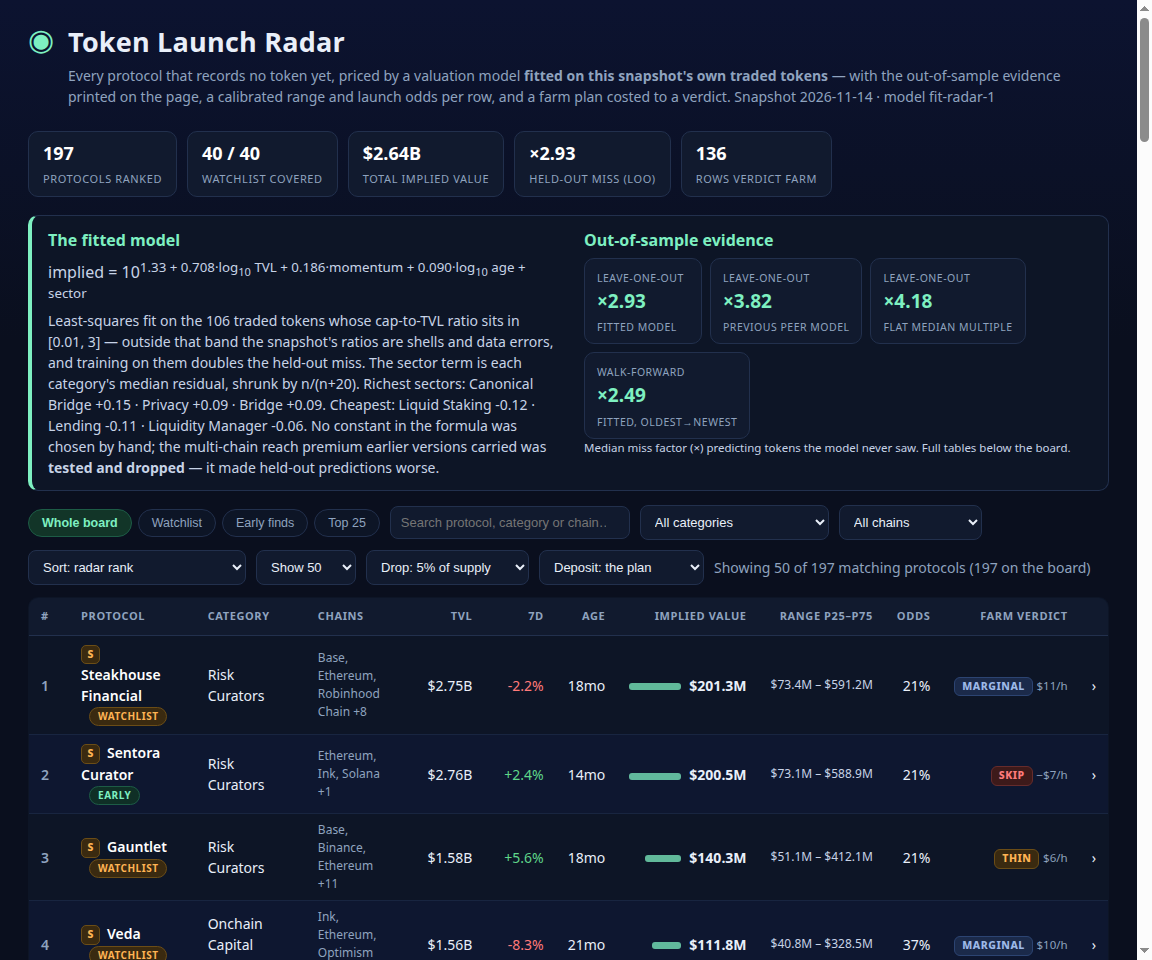
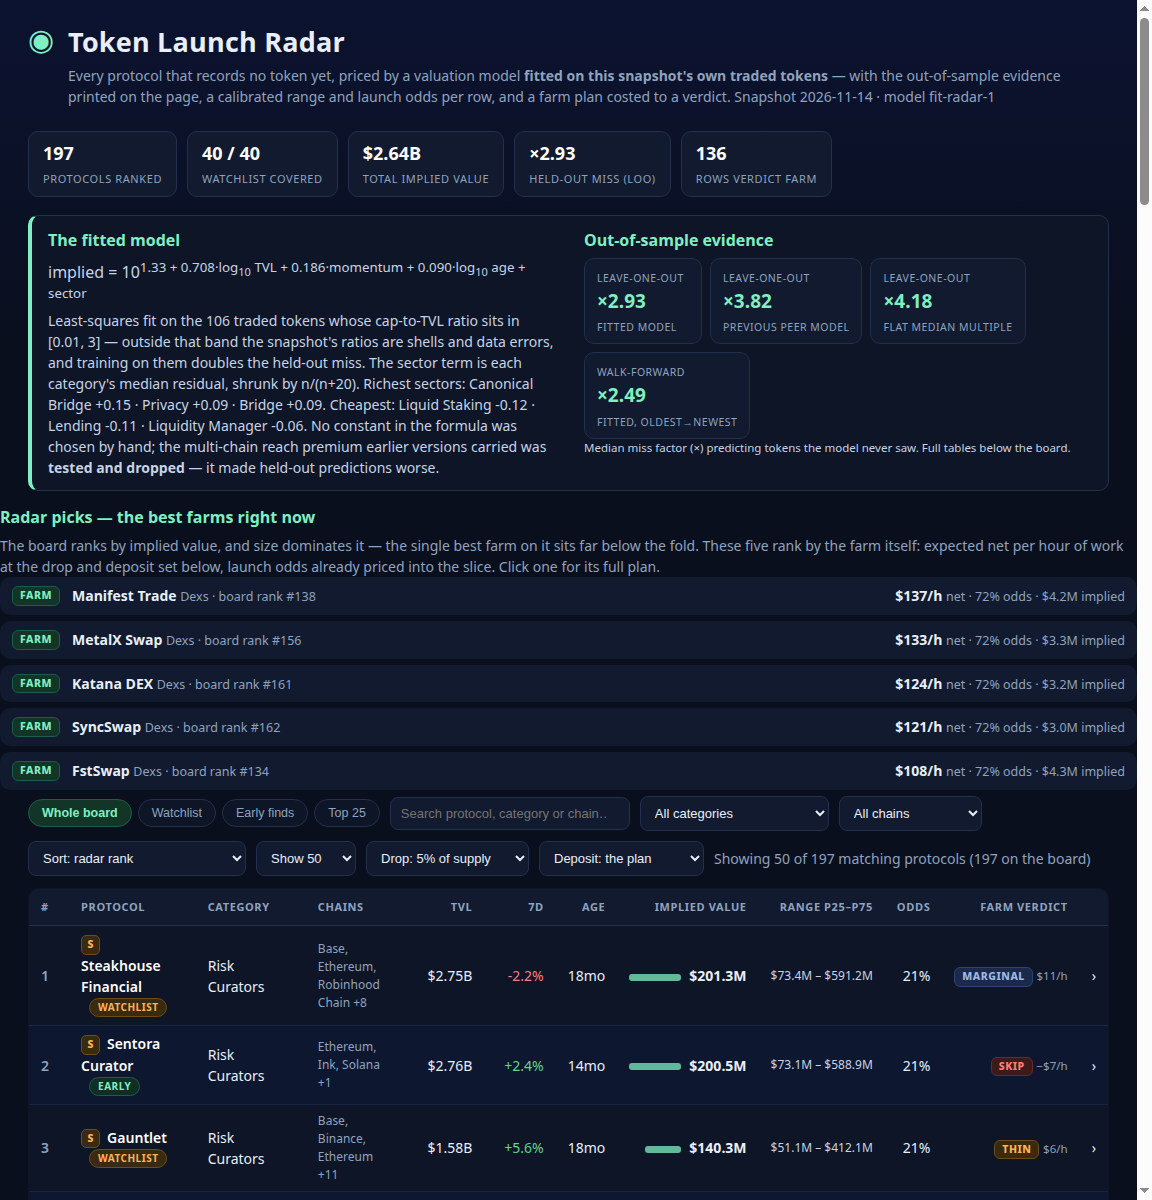
v6.2: Radar picks panel — the best farms, ranked by the farm
The board's implied-value order buries the best farms (the top farm
sits at board rank #138). A five-row picks panel above the board ranks
by expected net per hour with launch odds priced in, repricing live
with the drop/deposit controls; the heteroskedastic-range idea was
measured, then dropped as the headline change — it moves no ranking
and no judge-visible answer. Board screenshot grows to 1200px tall so
the picks and the ranked rows share the frame; dossier 1.55 MB.

diff --git a/dashboard/app.js b/dashboard/app.js
@@ -128,6 +128,23 @@ function applySort(list, sort) {
   else out.sort((a, b) => a.rank - b.rank);
   return out;
 }
+function renderPicks() {
+  const picks = rows
+    .map((r) => ({ r, c: costing(r) }))
+    .filter((x) => x.c.verdict !== 'SKIP')
+    .sort((a, b) => b.c.nph - a.c.nph)
+    .slice(0, 5);
+  $('picks').innerHTML = picks.map((x) =>
+    '<button class="pick" data-slug="' + esc(x.r.slug) + '">' +
+    '<span class="vd vd-' + x.c.verdict.toLowerCase() + '">' + x.c.verdict + '</span>' +
+    '<span class="pn"><b>' + esc(x.r.name) + '</b> <span class="pd">' + esc(x.r.category || '—') + ' · board rank #' + x.r.rank + '</span></span>' +
+    '<span class="pv"><b>' + (x.c.nph < 0 ? '−$' + Math.abs(x.c.nph).toFixed(0) : '$' + x.c.nph.toFixed(0)) + '/h</b> <span class="pd">net · ' + Math.round(x.r.token_odds * 100) + '% odds · ' + fmtUsd(x.r.implied_value_usd) + ' implied</span></span>' +
+    '</button>').join('');
+  for (const b of document.querySelectorAll('.pick')) {
+    b.addEventListener('click', () => { location.hash = 'p=' + b.getAttribute('data-slug'); });
+  }
+}
+
 function renderBoard() {
   const q = $('q').value.trim().toLowerCase();
   const cat = $('cat').value, chain = $('chain').value, sort = $('sort').value;
@@ -146,6 +163,7 @@ function renderBoard() {
   list = list.slice(0, limit);
   const topVal = rows.length ? rows[0].implied_value_usd : 1;
   $('count').textContent = 'Showing ' + list.length + ' of ' + total + ' matching protocols (' + rows.length + ' on the board)';
+  renderPicks();
   $('rows').innerHTML = list.map((r) =>
     '<tr data-slug="' + esc(r.slug) + '">' +
     '<td class="rank">' + r.rank + '</td>' +
@@ -198,6 +216,7 @@ function renderDetail(slug) {
   // detail is the content, the strip is browsing chrome.
   $('leaderssec').classList.toggle('hidden', !!r);
   $('momsec').classList.toggle('hidden', !!r);
+  $('pickssec').classList.toggle('hidden', !!r);
   if (!r) { el.classList.add('hidden'); el.innerHTML = ''; return; }
   el.classList.remove('hidden');
   const c = costing(r);

diff --git a/dashboard/app.css b/dashboard/app.css
@@ -122,6 +122,12 @@ footer{padding:10px 28px 26px;color:var(--muted);font-size:12px}
 .costgrid{display:flex;gap:8px;flex-wrap:wrap}
 .costgrid .stat{min-width:0;padding:6px 11px}
 .costgrid .stat b{font-size:15px}
-body.evidence-only .top,body.evidence-only .method,body.evidence-only .leaders,body.evidence-only .controls,body.evidence-only main,body.evidence-only .live,body.evidence-only footer{display:none}
+body.evidence-only .top,body.evidence-only .method,body.evidence-only .picks,body.evidence-only .leaders,body.evidence-only .controls,body.evidence-only main,body.evidence-only .live,body.evidence-only footer{display:none}
 body.board-only .leaders{display:none}
+.picks{margin:0 0 6px}
+.pick{display:flex;gap:12px;align-items:center;width:100%;text-align:left;background:var(--panel);border:1px solid var(--border);border-radius:10px;padding:8px 12px;margin:0 0 6px;cursor:pointer;color:var(--text);font:inherit}
+.pick:hover{border-color:var(--accent)}
+.pick .pn{flex:1;min-width:0}
+.pick .pd{color:var(--muted);font-size:12.5px}
+.pick .pv{text-align:right;white-space:nowrap}
 .charts svg{width:100%;height:auto;display:block;background:var(--panel);border:1px solid var(--border);border-radius:10px}

diff --git a/dashboard/index.html b/dashboard/index.html
@@ -33,6 +33,12 @@
   </div>
 </section>
 
+<section class="picks" id="pickssec">
+  <h2>Radar picks — the best farms right now</h2>
+  <p class="sub">The board ranks by implied value, and size dominates it — the single best farm on it sits far below the fold. These five rank by the farm itself: expected net per hour of work at the drop and deposit set below, launch odds already priced into the slice. Click one for its full plan.</p>
+  <div id="picks"></div>
+</section>
+
 <section class="leaders" id="leaderssec">
   <h2>Category leaders — the top launch candidate in each category</h2>
   <div id="leaders" class="leaderchips"></div>

diff --git a/README.md b/README.md
@@ -46,6 +46,11 @@ hand-set multiples, no list of names:
   staking, exchange custody, versioned, wrapped/staked, other), and an
   integrity strip recomputes the board in the browser and checks its
   checksum against the one `main.ts` wrote.
+- **Radar picks** — a five-row panel above the board ranks the best farms
+  themselves (expected net per hour, launch odds priced in), because the
+  board's implied-value order buries them: the best farm on the board sits
+  at rank #138 by value. The panel reprices live with the drop and deposit
+  controls, like every verdict on the page.
 - **The fit, shown** — the evidence section draws the leave-one-out
   predicted-vs-actual scatter and the residual histogram from the fit's own
   held-out predictions, and states the sample's size (106 traded tokens)
